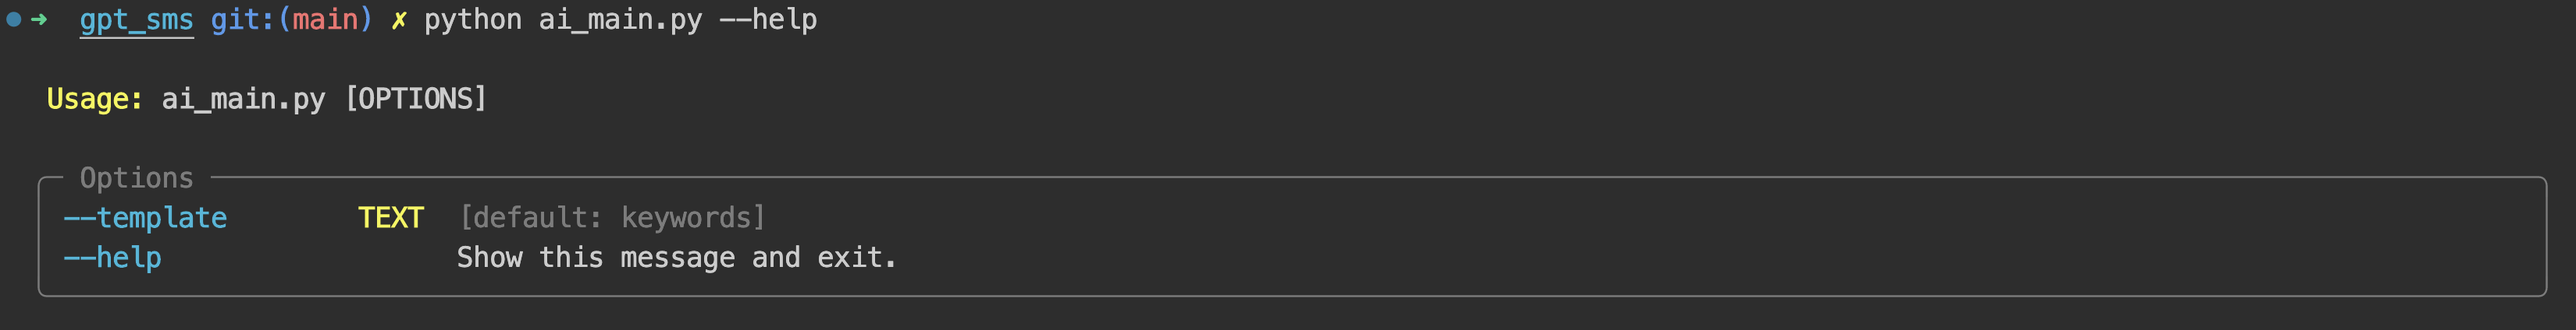
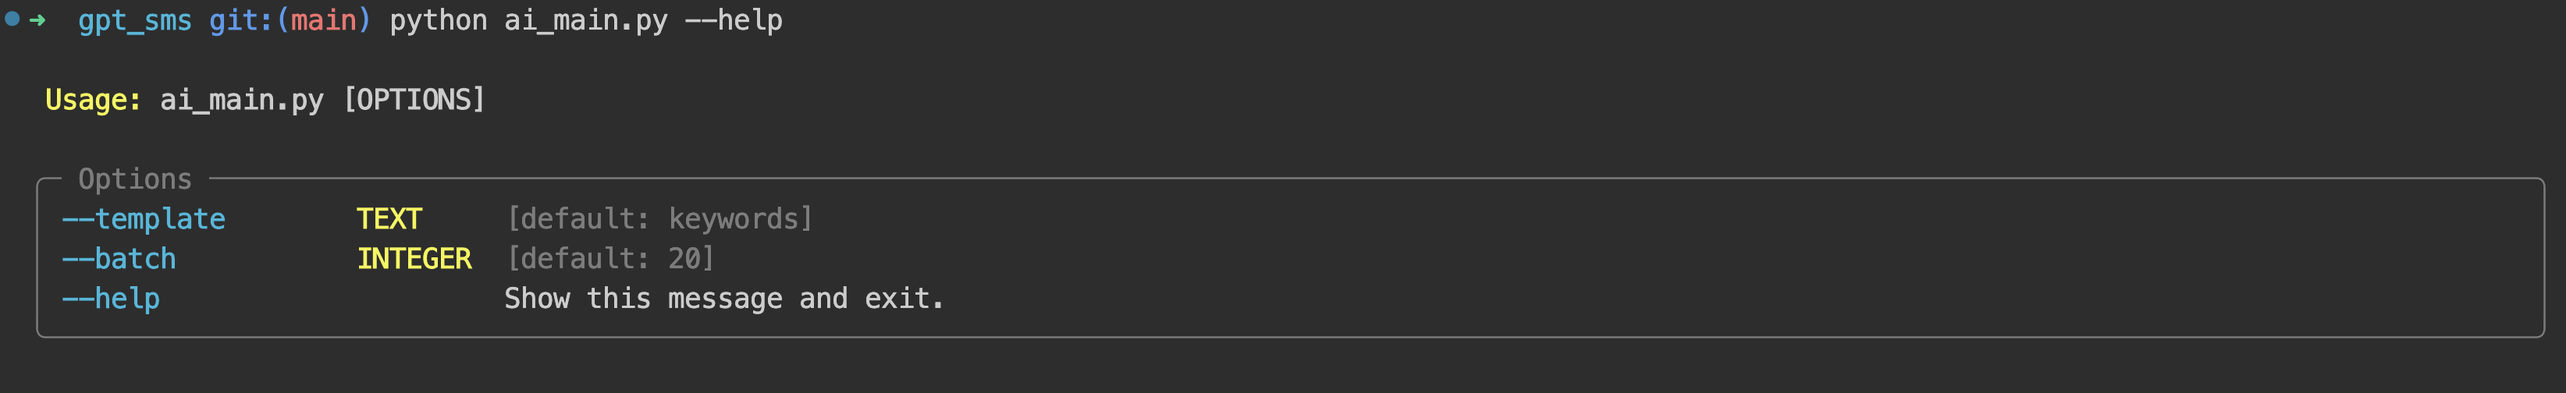
Initial commit

diff --git a/mib_messages/ai.py b/mib_messages/ai.py
@@ -41,7 +41,7 @@ def gpt_parse(message_id:int, message:str, phone:str, parser:MessageParser) -> b
     return update_message(next(get_db()), message_id, **info)
 
 
-def ai_loop(template:Optional[str] = 'keywords'):
+def ai_loop(template:Optional[str] = 'keywords',batch:int = 20):
     
     # initialize a parser
     parser = MessageParser(template_name = template)
@@ -51,7 +51,7 @@ def ai_loop(template:Optional[str] = 'keywords'):
     while True:
         
         # fetch a batch of messages
-        batch = next_batch(size = 3)
+        batch = next_batch(size = batch)
         
         if len(batch) == 0:
             break

diff --git a/README.md b/README.md
@@ -8,6 +8,8 @@ class Settings(BaseSettings):
     OPENAI_API_KEY:str = os.getenv("OPENAI_API_KEY","fake_api_key") # export OPENAI_API_KEY=your_api_key
     FEWSHOT_EXAMPLE_PATH = "./example.json" # if you have a fewshot example json file
 ```
+Recommend to use a absolute path on google drive, e.g.
+`sqlite:////content/drive/MyDrive/Not Code/testsl.db`
 
 ## Prepare your data either csv or feather
 Locate your file at `/path/to/csv/file` or `/path/to/feather/file`,  which fill be used in data preparation step.
@@ -20,6 +22,6 @@ python data_main.py --fmt [csv|feather] [--replace] path/to/csv/file
 
 ## Run GPT message parser
 ```bash
-python ai_main.py
+python ai_main.py --template keywords --batch 20
 ```
 ![aimain](./images/aimain.png)
